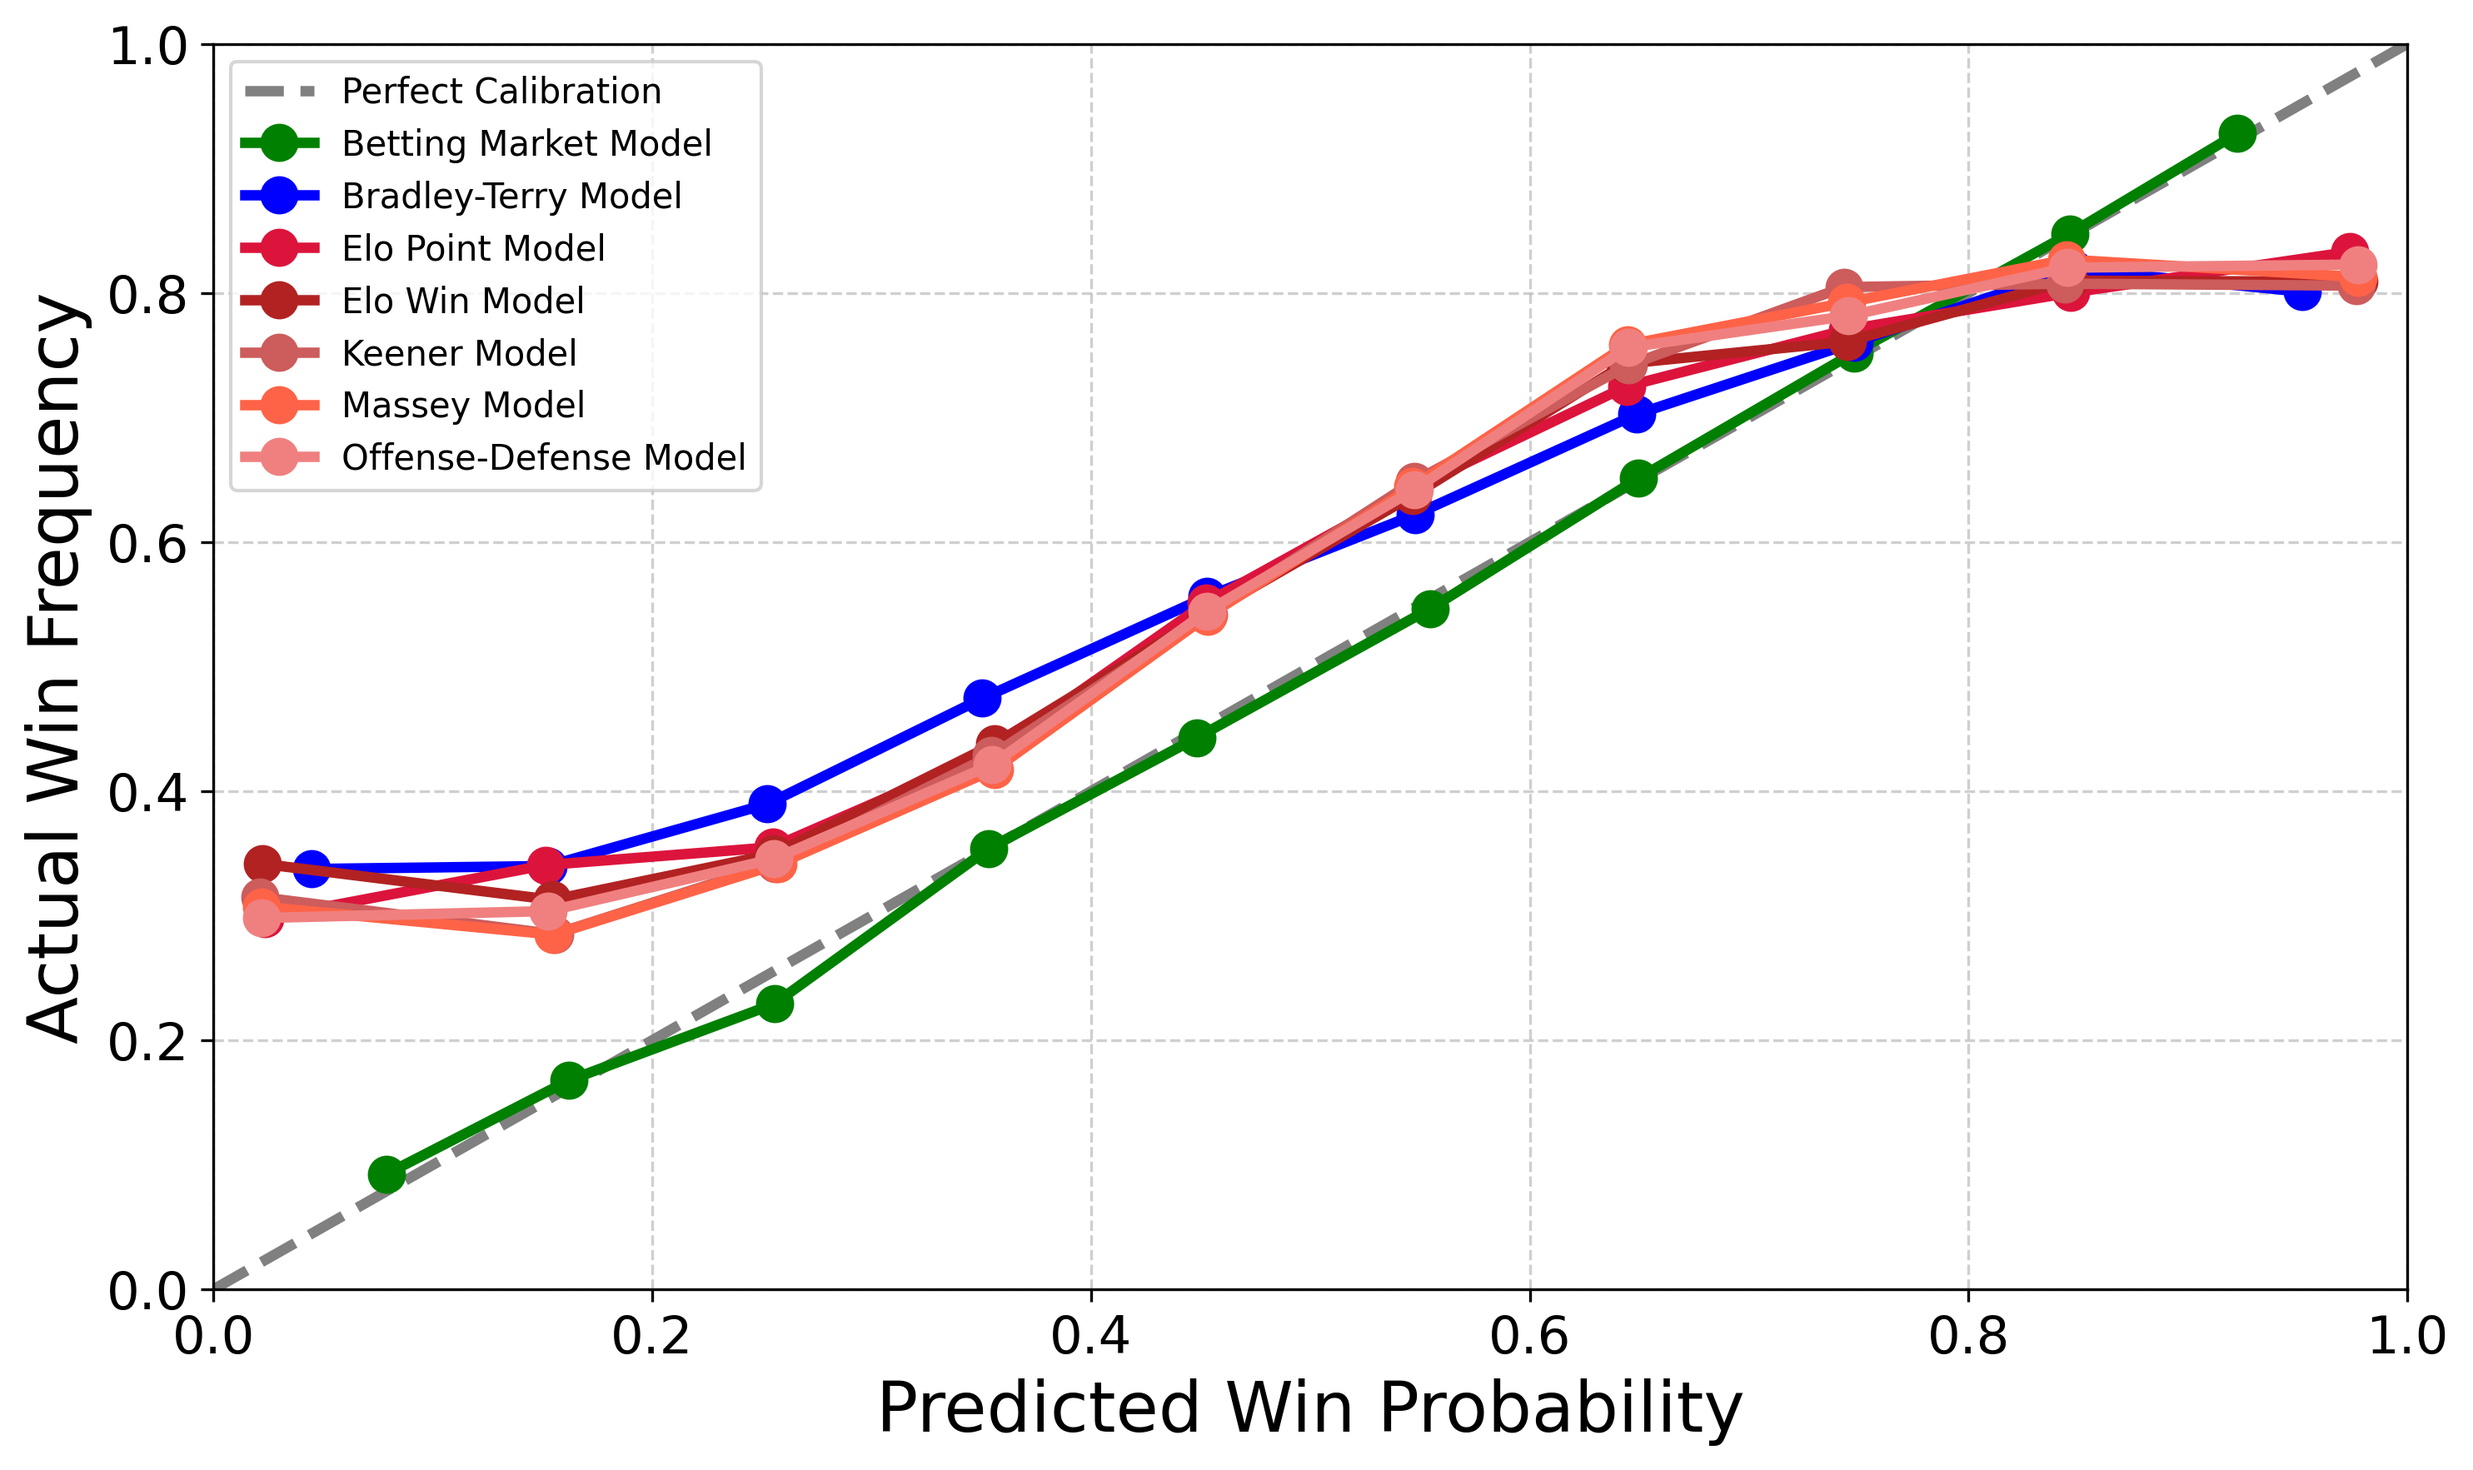
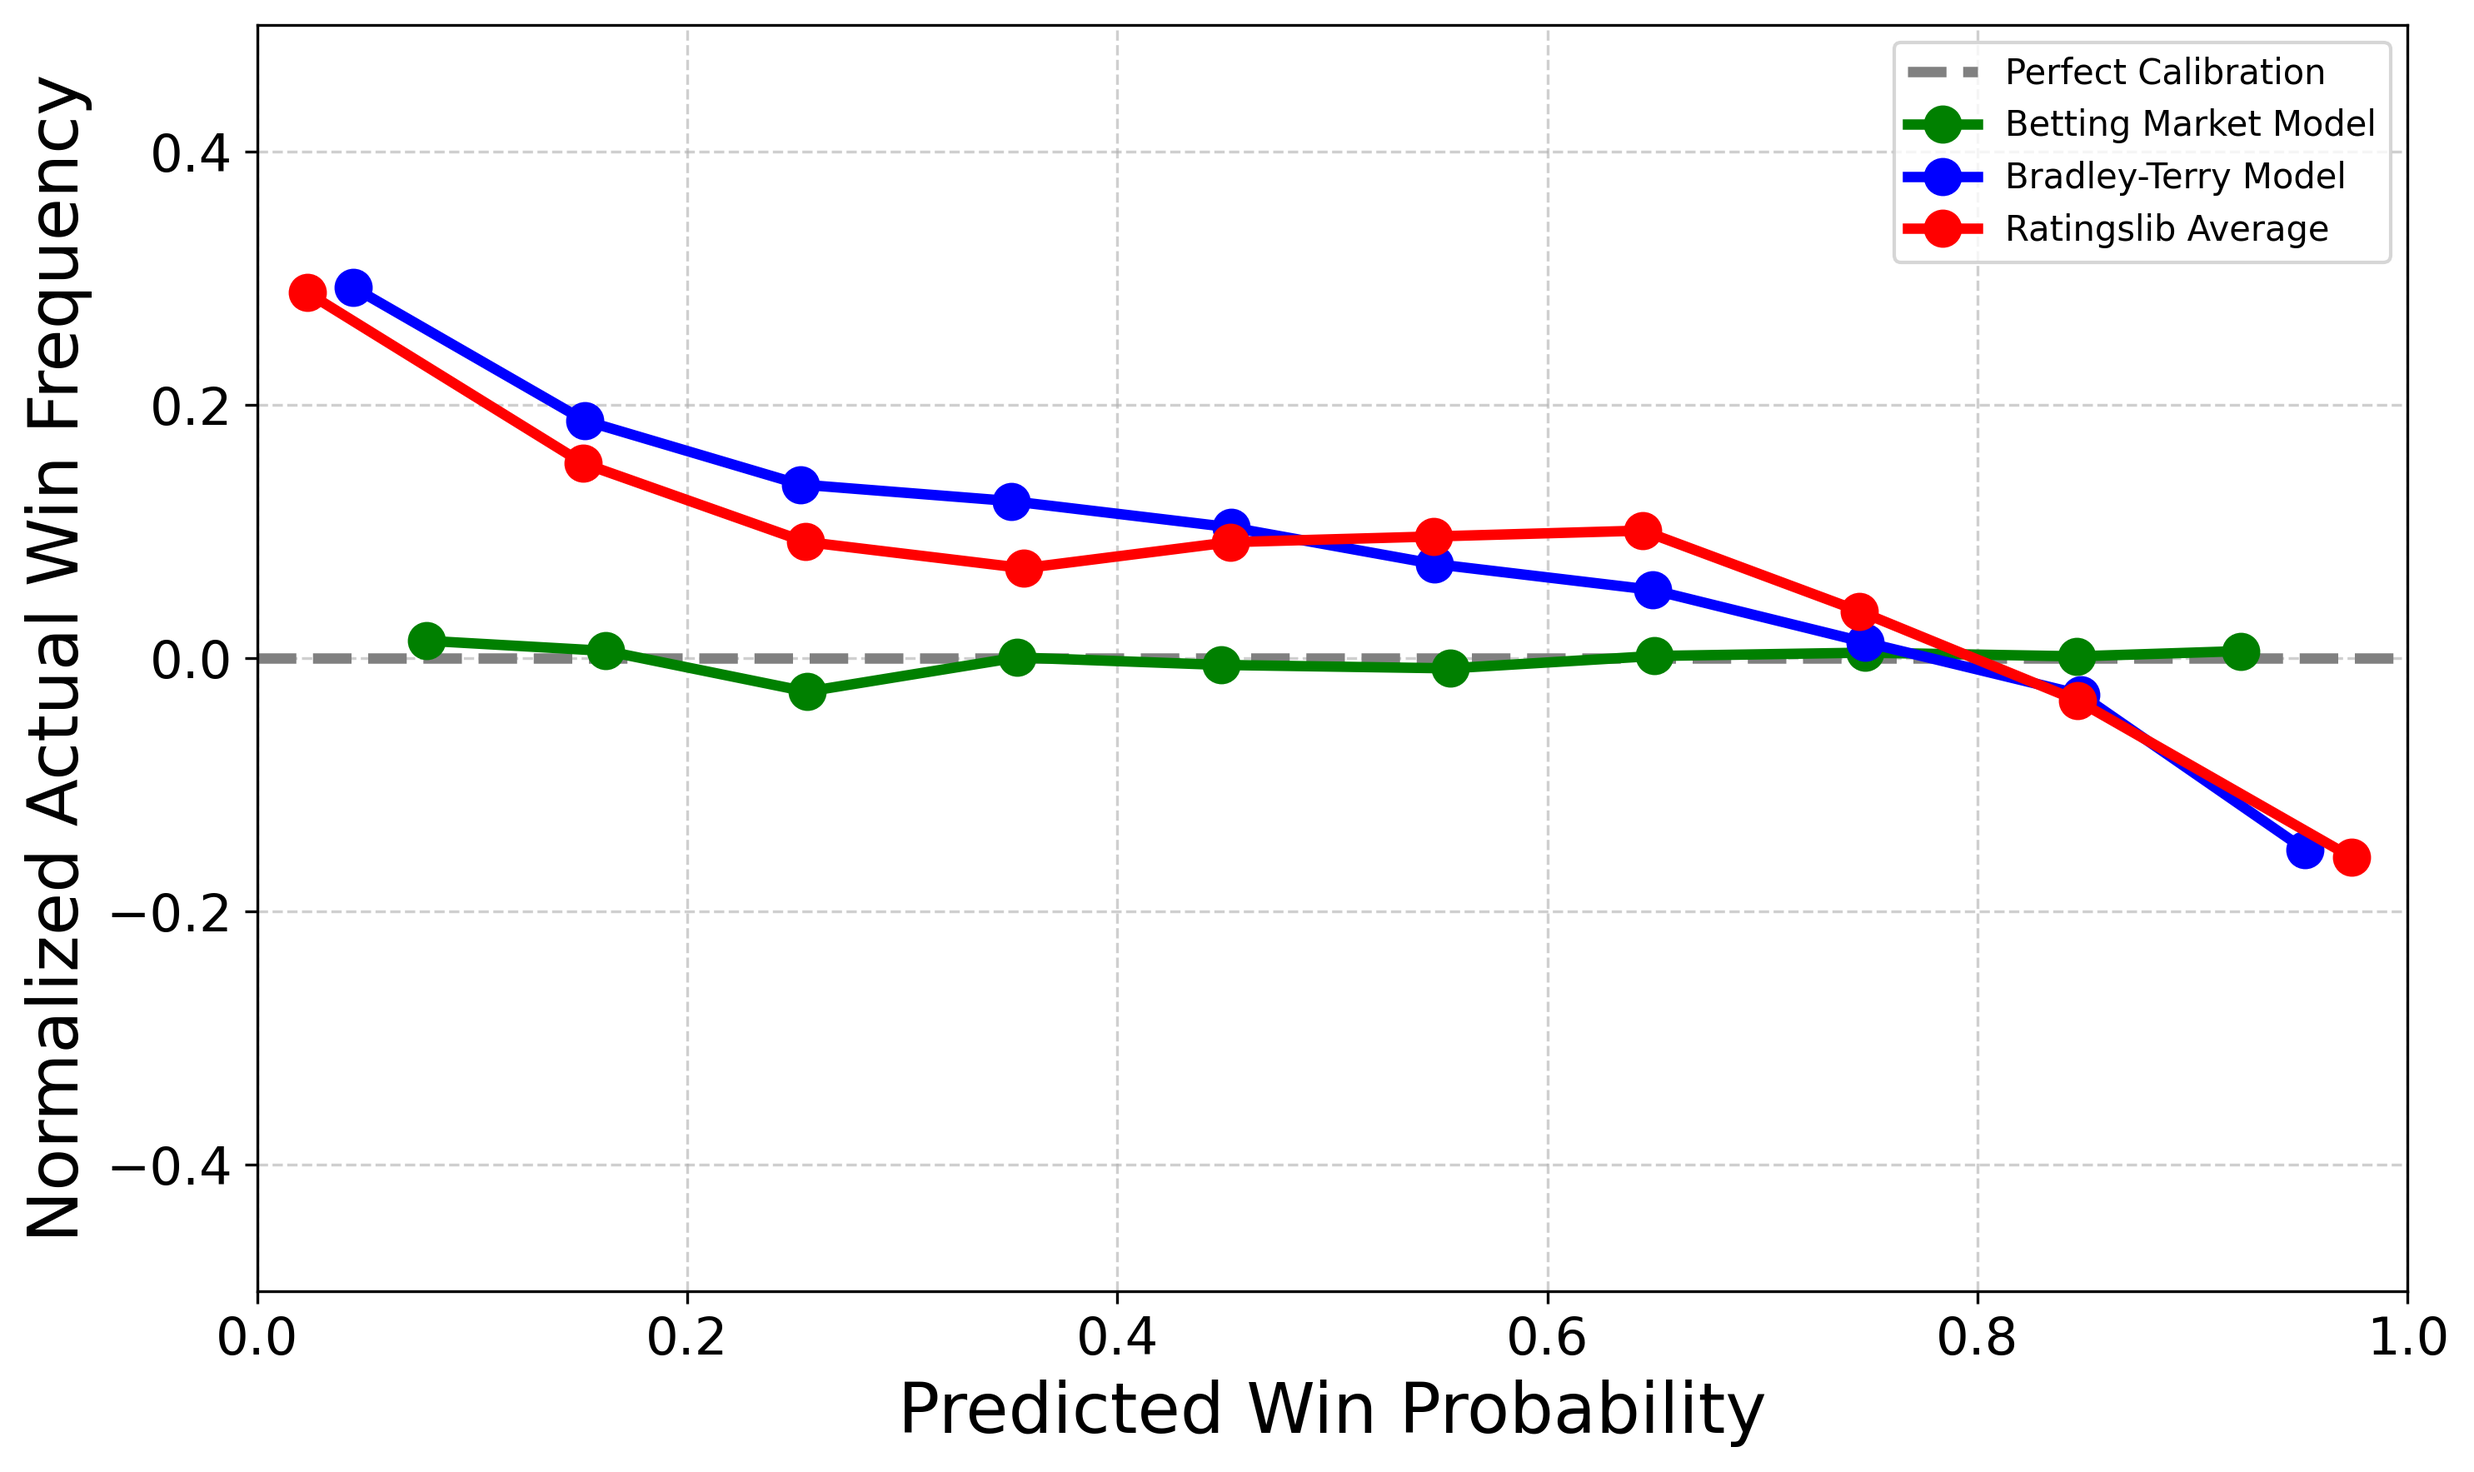
normalied calibration plots and combined ratingslib in calibration plot

diff --git a/src/graphing/calibration.py b/src/graphing/calibration.py
@@ -29,11 +29,11 @@ for league in leagues:
     for half in halves:
 
         plt.figure(figsize=(10, 6))
-        plt.plot([0, 1], [0, 1], linestyle='--', color='gray', label='Perfect Calibration',linewidth=3, markersize=10)
+        plt.plot([0, 1], [0, 0], linestyle='--', color='gray', label='Perfect Calibration',linewidth=3, markersize=10)
         plt.xlim(0, 1)
-        plt.ylim(0, 1)
+        plt.ylim(-0.5, 0.5)
         plt.xlabel('Predicted Win Probability', fontsize=20)
-        plt.ylabel('Actual Win Frequency', fontsize=20)
+        plt.ylabel('Normalized Actual Win Frequency', fontsize=20)
         plt.legend(fontsize=15)
         plt.grid(True, linestyle='--', alpha=0.6)
         plt.tick_params(axis='both', which='major', labelsize=15)
@@ -73,8 +73,8 @@ for league in leagues:
             distribution_data.append(elo_prop_row)
             
 
-            plt.plot(prob_pred1, prob_true1, marker='o', label='Betting Market Model', color='green',linewidth=3, markersize=10)
-            plt.plot(prob_pred2, prob_true2, marker='o', label='Elo Model', color='magenta',linewidth=3, markersize=10)
+            plt.plot(prob_pred1, prob_true1 - prob_pred1, marker='o', label='Betting Market Model', color='green',linewidth=3, markersize=10)
+            plt.plot(prob_pred2, prob_true2 - prob_pred2, marker='o', label='Elo Model', color='magenta',linewidth=3, markersize=10)
 
         else:
             ml_df = ml_df[ml_df[['avg_prob_1']].notnull().all(axis=1)]
@@ -92,7 +92,7 @@ for league in leagues:
             ml_prop_row.update({f'bin_{i+1}': val for i, val in enumerate(ml_props)})
             distribution_data.append(ml_prop_row)
 
-            plt.plot(prob_pred1, prob_true1, marker='o', label='Betting Market Model', color='green',linewidth=3, markersize=10)
+            plt.plot(prob_pred1, prob_true1 - prob_pred1, marker='o', label='Betting Market Model', color='green',linewidth=3, markersize=10)
 
 
         bt_df = pd.read_csv(bradley_terry_path)
@@ -110,7 +110,7 @@ for league in leagues:
         bt_prop_row.update({f'bin_{i+1}': val for i, val in enumerate(bt_props)})
         distribution_data.append(bt_prop_row)
 
-        plt.plot(prob_pred1, prob_true1, marker='o', label='Bradley-Terry Model', color='blue',linewidth=3, markersize=10)
+        plt.plot(prob_pred1, prob_true1 - prob_pred1, marker='o', label='Bradley-Terry Model', color='blue',linewidth=3, markersize=10)
 
 
 
@@ -169,11 +169,10 @@ for league in leagues:
         od_prop_row.update({f'bin_{i+1}': val for i, val in enumerate(od_props)})
         distribution_data.append(od_prop_row)
 
-        plt.plot(prob_pred1, prob_true1, marker='o', label='Elo Point Model', color='crimson', linewidth=3, markersize=10)
-        plt.plot(prob_pred2, prob_true2, marker='o', label='Elo Win Model', color='firebrick', linewidth=3, markersize=10)
-        plt.plot(prob_pred3, prob_true3, marker='o', label='Keener Model', color='indianred', linewidth=3, markersize=10)
-        plt.plot(prob_pred4, prob_true4, marker='o', label='Massey Model', color='tomato', linewidth=3, markersize=10)
-        plt.plot(prob_pred5, prob_true5, marker='o', label='Offense-Defense Model', color='lightcoral', linewidth=3, markersize=10)
+        ratingslib_avg = [sum(x) / len(x) for x in zip(*[prob_true1, prob_true2, prob_true3, prob_true4, prob_true5])]
+
+
+        plt.plot(prob_pred1, ratingslib_avg - prob_pred1, marker='o', label='Ratingslib Average', color='red', linewidth=3, markersize=10)
 
 
         plt.legend()
